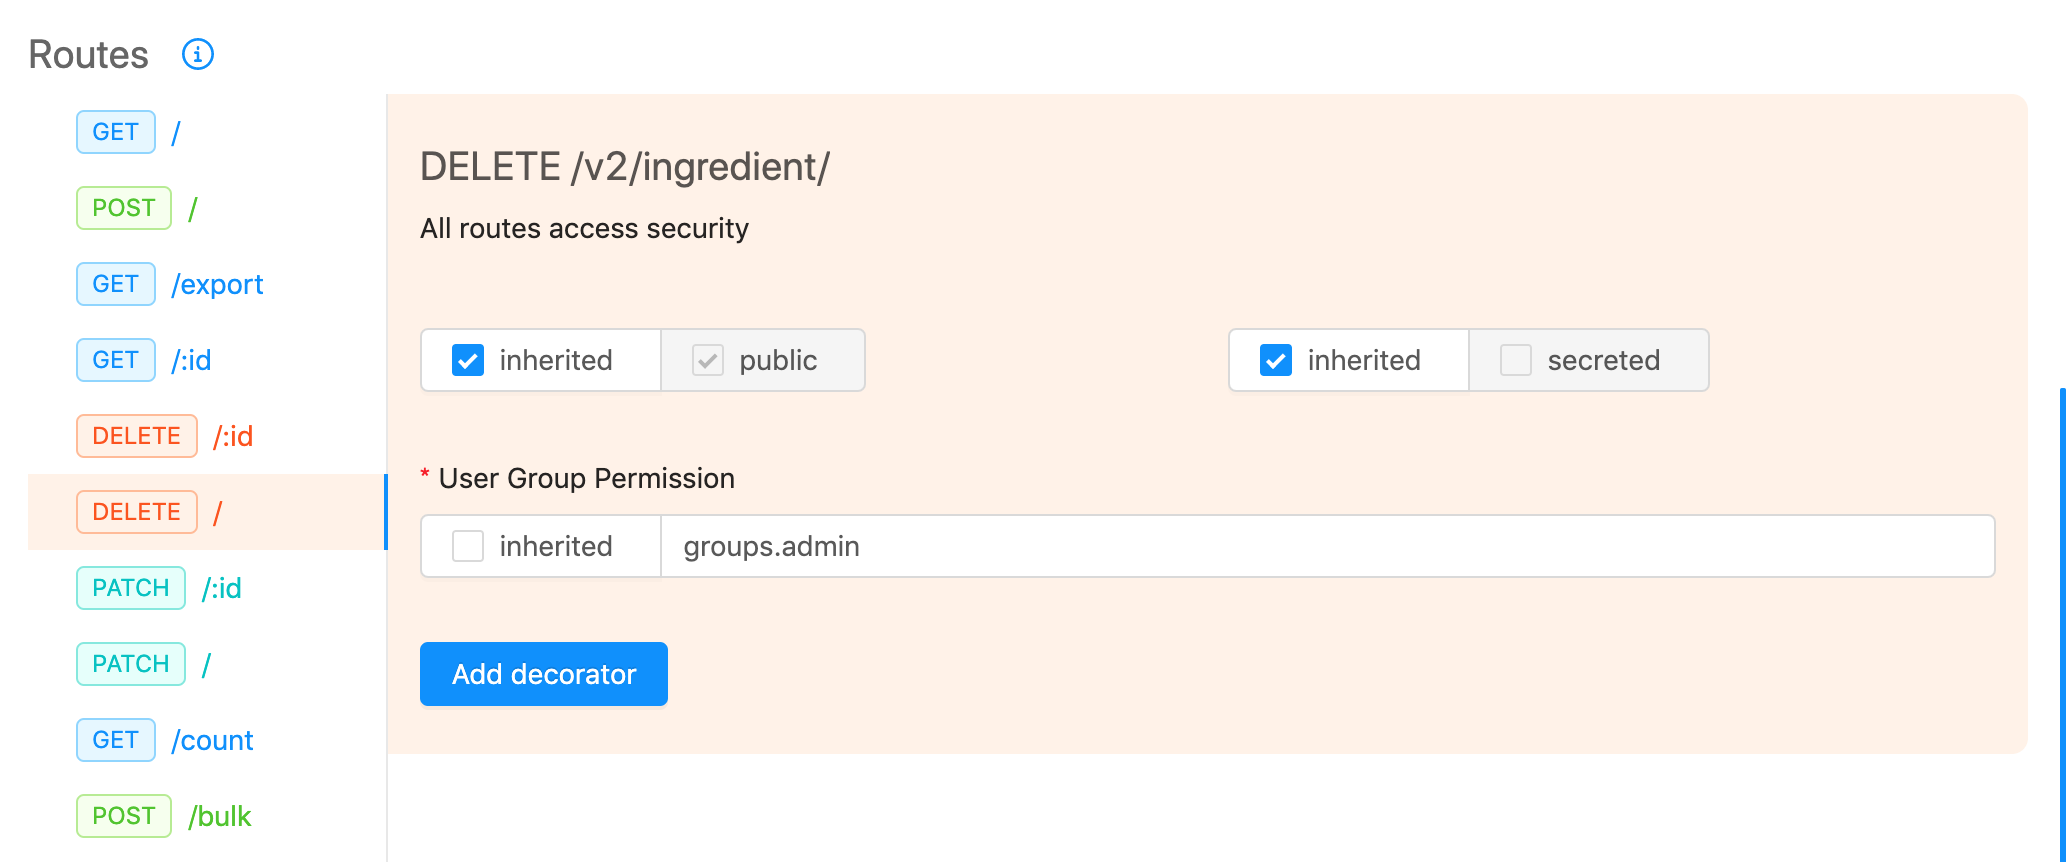
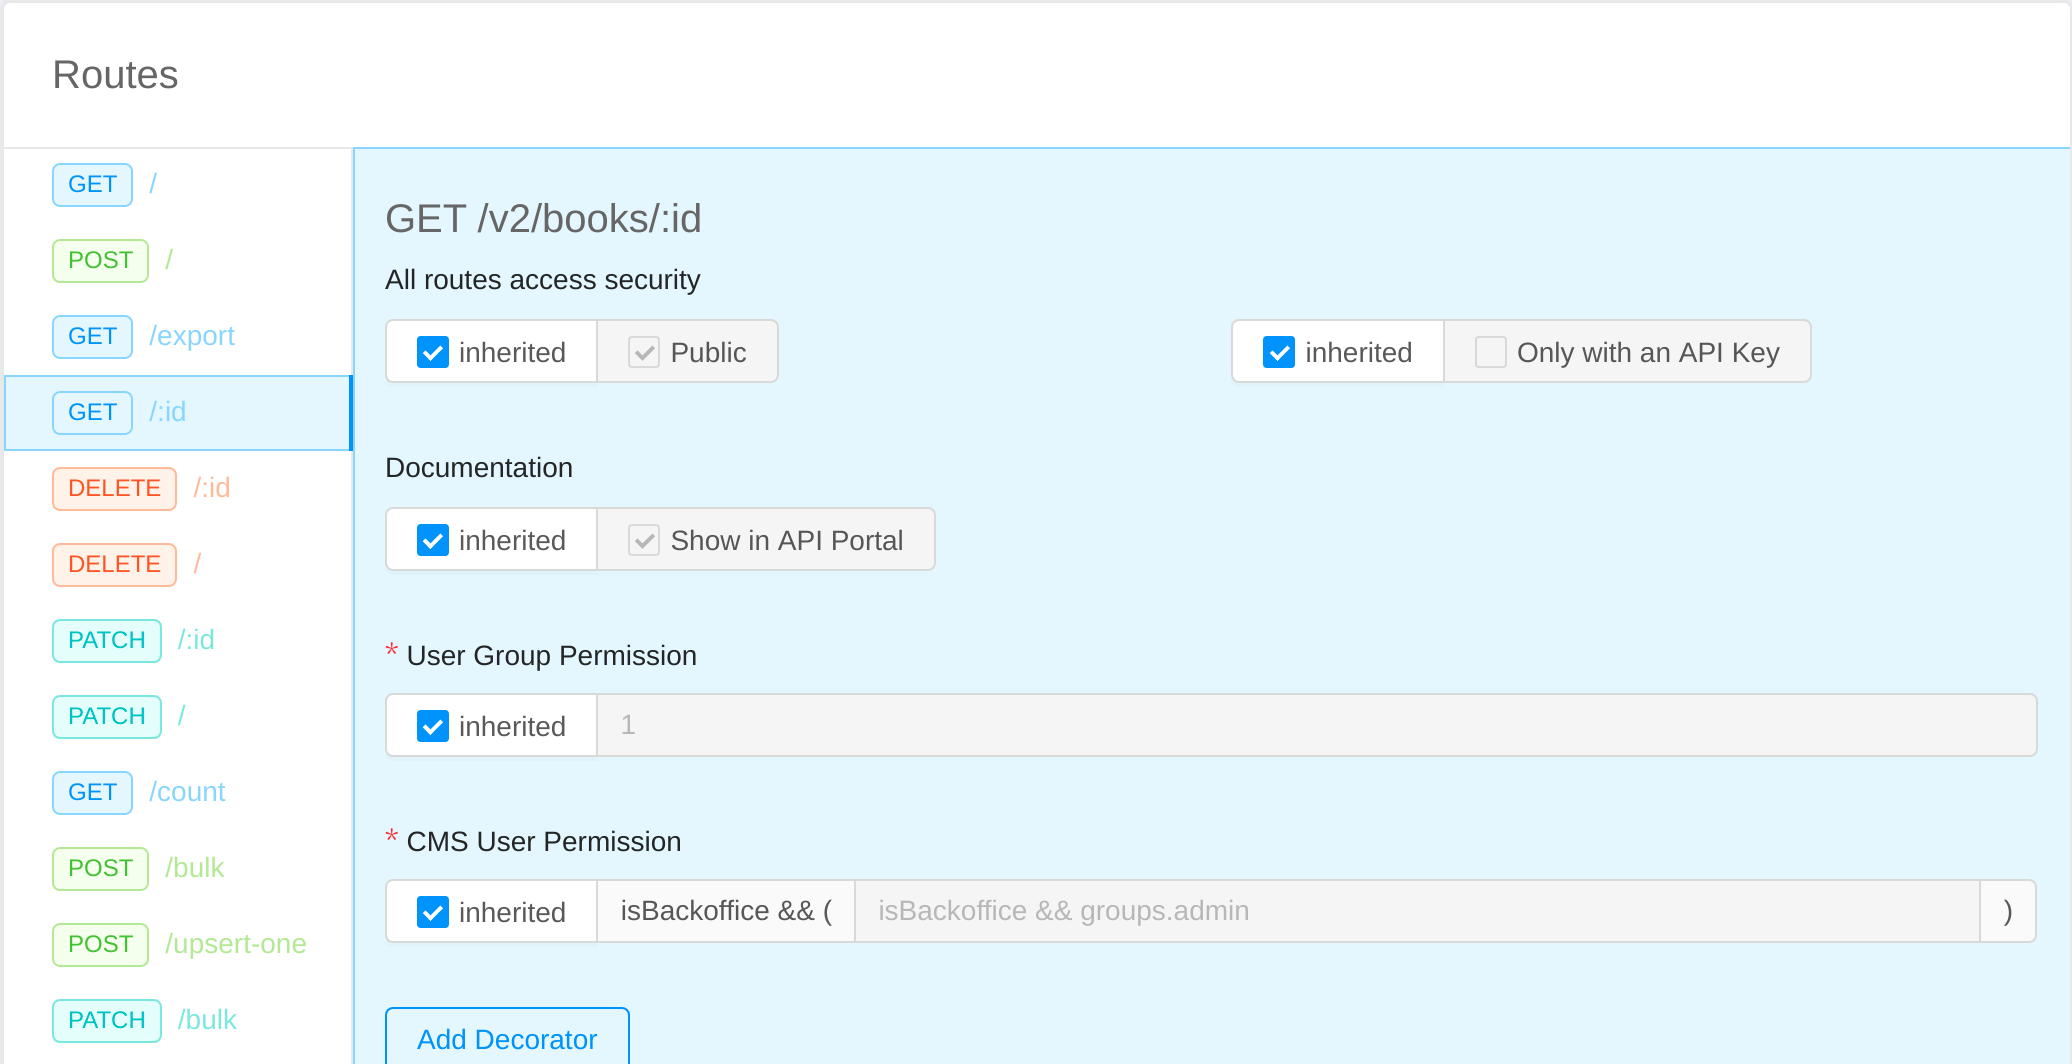
feat(BMP-686):updated documentation for endpoints and routes visibility

diff --git a/docs/development_suite/api-console/api-design/endpoints.md b/docs/development_suite/api-console/api-design/endpoints.md
@@ -123,6 +123,22 @@ If you figure out that there's some problem in how you configured the security o
 Check out the [API Key section](api_key.md) to know more about the API Keys
 :::
 
+## Manage the visibility of your endpoints
+
+In the Management section, you can manage the endpoint visibility in the [API Portal](../../api-portal/api-documentations.md).
+
+The `Show in API Portal` flag enabled allows seeing all endpoint routes in the [API Portal](../../api-portal/api-documentations.md) documentation. By **default**, all endpoints have this **flag enabled**. Disabling this flag for any endpoint type will guarantee that all its routes will not appear.
+
+The visibility can also be defined at the route level in the [routes](endpoints.md#routes) section. In this way, it is possible to specify which routes of a specific endpoint should be present in the API Portal and which should not.  
+The `inherited` flag enabled (by default) will guarantee that the selected route will inherit the visibility of its base endpoint.
+Disabling this flag for a specific route will allow defining a custom behaviour for that route.
+
+Managing the visibility of endpoints and their routes is useful if, for example, you want to show publicly exposed routes while hiding in the API Portal the ones that require special permission that users do not possess.  
+
+:::note
+It is important to notice that changing the visibility of an endpoint or a route **will not alter its functionality**, a route will **still be contactable** even if its visibility is hidden.
+:::
+
 ## Transition through Microservice Gateway
 
 Thanks to this feature, you can define, in each endpoint, which route is going to pass through Microservice Gateway.

diff --git a/docs/development_suite/api-portal/api-documentations.md b/docs/development_suite/api-portal/api-documentations.md
@@ -20,6 +20,10 @@ The next sections will show you examples and information per request type: GET, 
 
 The Console will show you a request example for each request type that you can use to easily test your Api. You just need to copy the request example, paste it in the Json editor and you will be ready to test your Api!
 
+:::info
+If you want to hide some endpoints of your API from the API Portal documentation you can do this in the [Management section](../api-console/api-design/endpoints.md#manage-the-visibility-of-your-endpoints) of the endpoint you want to hide
+:::
+
 ### GET request
 
 #### How to "Get a list of plates"
